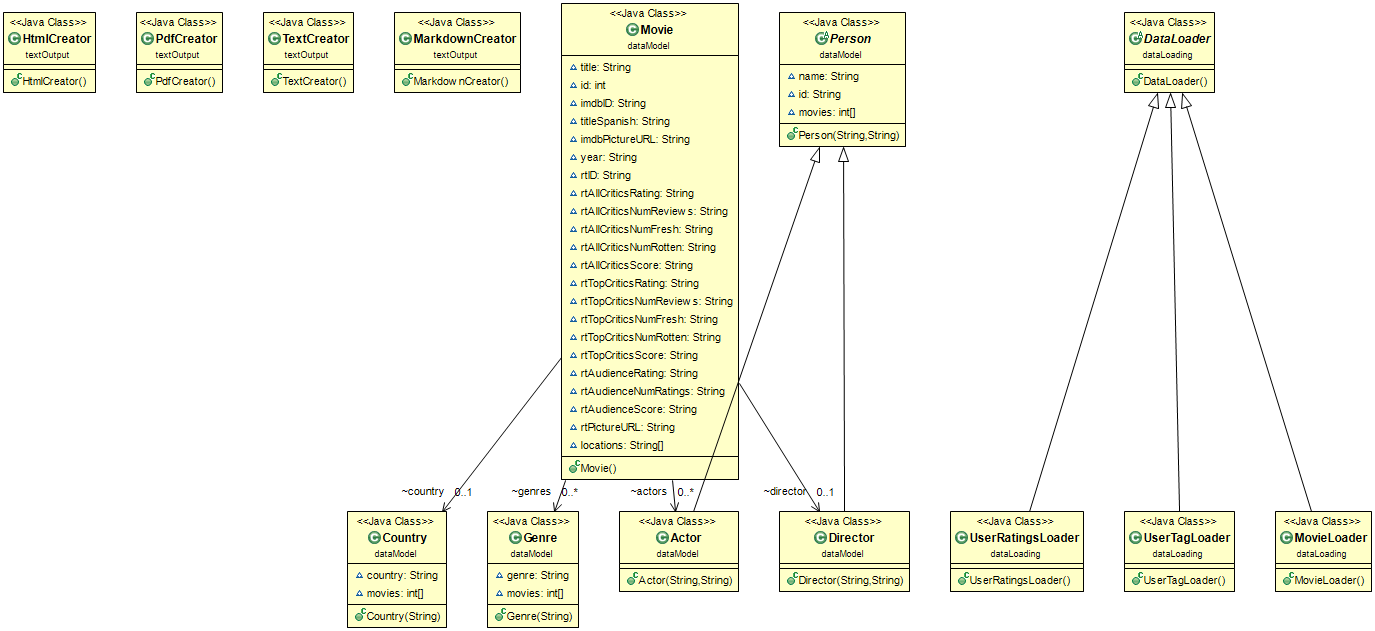
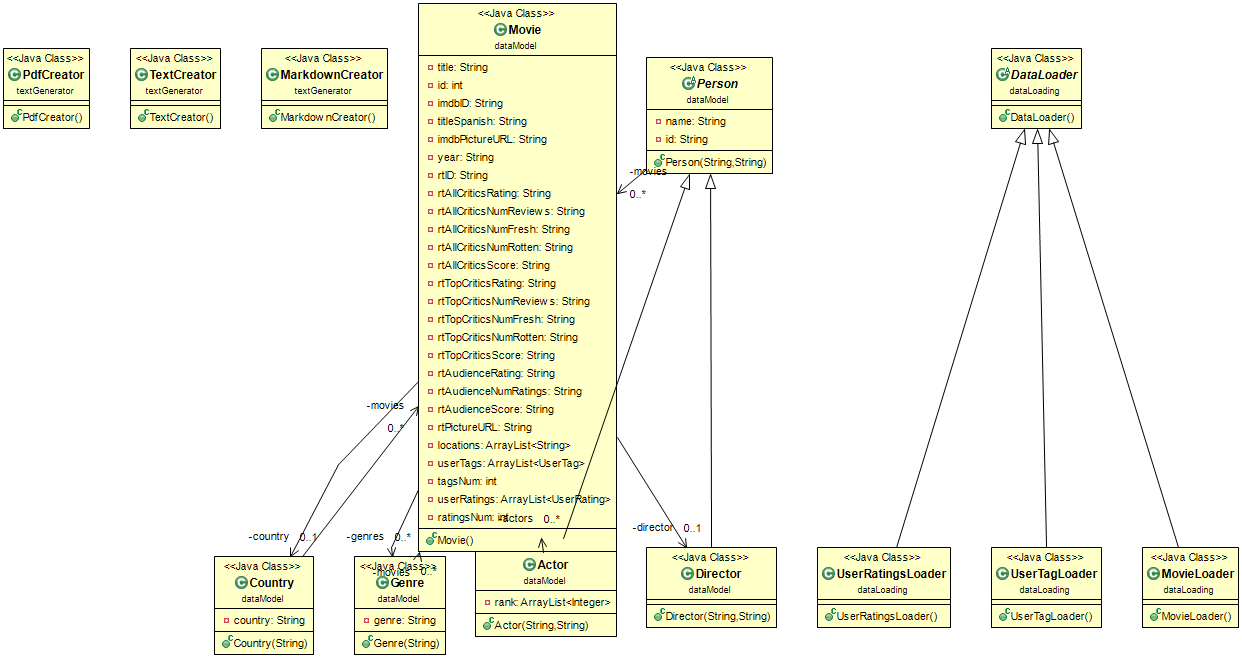
Added generic class for the dynamic list creation
created the dependencies between the loader and the model

diff --git a/src/dataLoading/DirectorsLoader.java b/src/dataLoading/DirectorsLoader.java
@@ -1,5 +1,8 @@
 package dataLoading;
 
-public class DirectorsLoader extends DataLoader {
+import dataModel.Director;
 
+public class DirectorsLoader extends DataLoader {
+	
+	private DataLists<Director> directors;
 }

diff --git a/src/dataLoading/CountryLoader.java b/src/dataLoading/CountryLoader.java
@@ -1,5 +1,8 @@
 package dataLoading;
 
-public class CountryLoader extends DataLoader {
+import dataModel.Country;
 
+public class CountryLoader extends DataLoader {
+	
+	private DataLists<Country> countries;
 }

diff --git a/src/dataLoading/ActorLoader.java b/src/dataLoading/ActorLoader.java
@@ -1,5 +1,8 @@
 package dataLoading;
 
-public class ActorLoader extends DataLoader {
+import dataModel.Actor;
 
+public class ActorLoader extends DataLoader {
+	
+	private DataLists<Actor> actors;
 }

diff --git a/src/dataLoading/GenreLoader.java b/src/dataLoading/GenreLoader.java
@@ -1,5 +1,8 @@
 package dataLoading;
 
-public class GenreLoader extends DataLoader {
+import dataModel.Genre;
 
+public class GenreLoader extends DataLoader {
+	
+	private DataLists<Genre> genres;
 }

diff --git a/src/dataLoading/DataLists.java b/src/dataLoading/DataLists.java
@@ -1,0 +1,12 @@
+package dataLoading;
+
+import java.util.ArrayList;
+
+public class DataLists<Item> {
+	
+	DataLists() {
+		ArrayList<Item> itemList;
+	}
+	
+
+}

diff --git a/src/dataLoading/MovieLoader.java b/src/dataLoading/MovieLoader.java
@@ -1,5 +1,8 @@
 package dataLoading;
 
+import dataModel.Movie;
+
 public class MovieLoader extends DataLoader {
 
+	private DataLists<Movie> movies;
 }

diff --git a/src/dataLoading/DataLoader.java b/src/dataLoading/DataLoader.java
@@ -1,5 +1,5 @@
 package dataLoading;
-import dataModel.Actor;
-public abstract class DataLoader {
 
+public abstract class DataLoader {
+	
 }

diff --git a/src/dataLoading/LocationsLoader.java b/src/dataLoading/LocationsLoader.java
@@ -1,5 +1,6 @@
 package dataLoading;
 
 public class LocationsLoader extends DataLoader {
-
+	
+	private DataLists<String> locations;
 }
